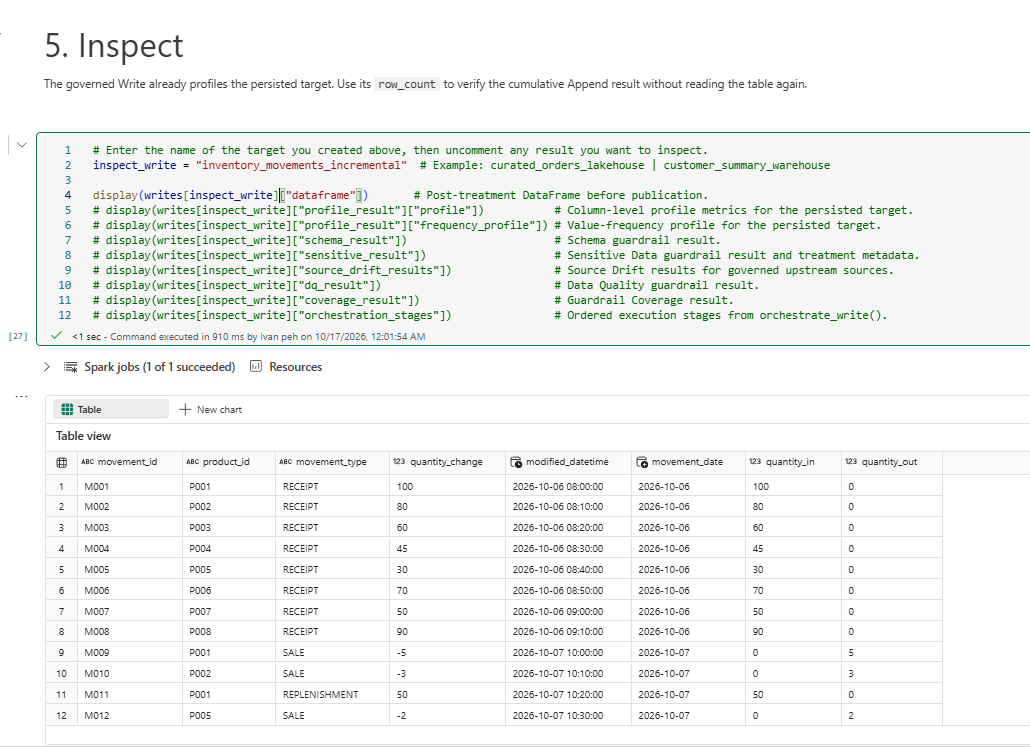
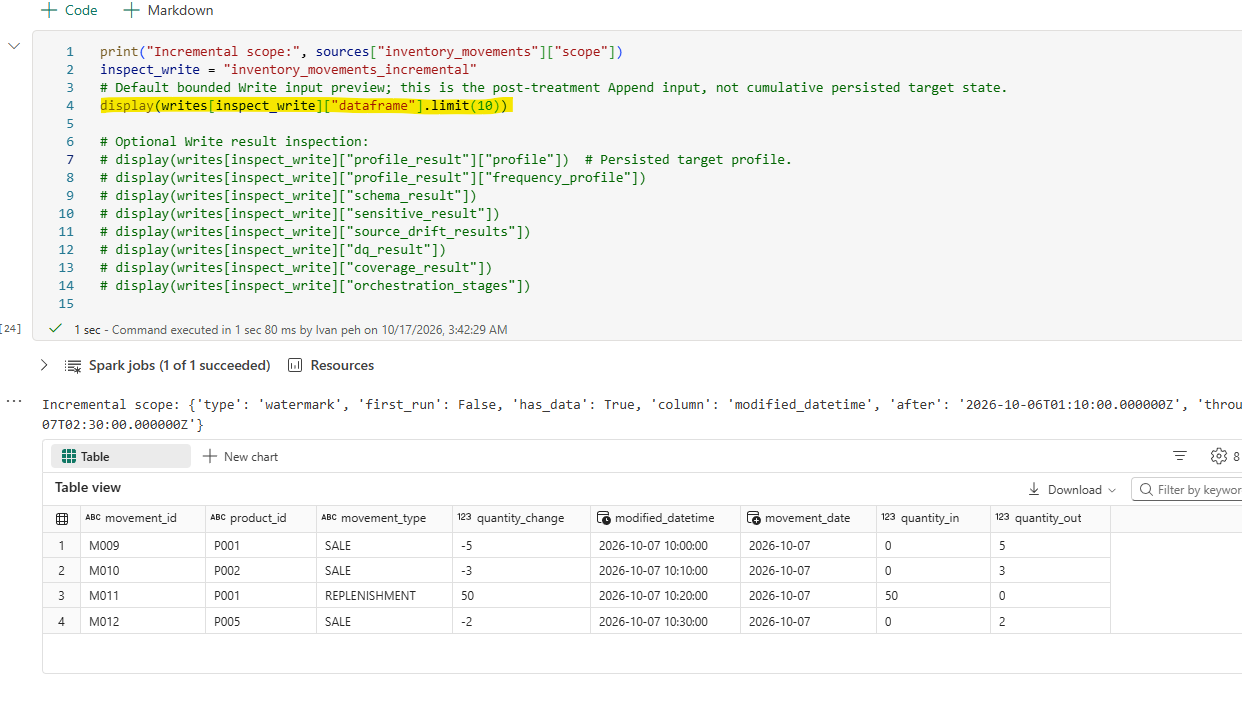
2b update

diff --git a/docs/guided-demo/02B-build-and-run-incremental-append-etl.md b/docs/guided-demo/02B-build-and-run-incremental-append-etl.md
@@ -58,30 +58,40 @@ Silver Lakehouse "demo.inventory_movement_incremental" and set "modified_datetim
 
 ![Day 1 demo day selection](../assets/2b/Day%201.png)
 
+Ocestrate Read: 
+Set a target table a read mode (incremental/full) and a Watermark Column
+
 ![Incremental Read configuration](../assets/2b/Incremental_Read.png)
+
+Day 1 first run 8 rows is read
 
 ![Incremental Read inspection](../assets/2b/Incremental_Read_inspect.png)
 
+Ocestrate Write: 
+Set a single or multiple source table and Write mode = "Append"
+
 ![Incremental Write configuration](../assets/2b/Incremental_Write.png)
+
+Day 1 first run 8 rows is written
 
 ![Incremental Write inspection](../assets/2b/Incremental_Write_Inspect.png)
 
-???+ Info How Does Incremental Load Work in FabricOps?
+## Info How Does Incremental Load Work in FabricOps?
 
-   ### FabricOps handles incremental loading through two orchestrators:
+### FabricOps handles incremental loading through two orchestrators:
 
-    1. orchestrate_read() identifies and reads only new or modified records using a watermark.
+1. orchestrate_read() identifies and reads only new or modified records using a watermark.
 
-    2. orchestrate_write() applies the selected write strategy, such as Append, and commits watermark progress only after a successful publication.
+2. orchestrate_write() applies the selected write strategy, such as Append, and commits watermark progress only after a successful publication.
 
-   ### How It Works
+### How It Works
 
-    1. Identify the source: Bronze Lakehouse demo.inventory_movements.
-    2. Identify the target: Silver Lakehouse demo.inventory_movements_incremental.
-    3. Retrieve the committed watermark for this source-to-target relationship.
-    4. Check Bronze for records where:modified_datetime > last_committed_watermark
-    5. Read only newer records, transform them, and append them to Silver.
-    6. Advance the watermark only after successful write.
+1. Identify the source: Bronze Lakehouse demo.inventory_movements.
+2. Identify the target: Silver Lakehouse demo.inventory_movements_incremental.
+3. Retrieve the committed watermark for this source-to-target relationship.
+4. Check Bronze for records where:modified_datetime > last_committed_watermark
+5. Read only newer records, transform them, and append them to Silver.
+6. Advance the watermark only after successful write.
 
 <div class="fabricops-section-banner" markdown="1">
 <img src="/FabricOps-Starter-Kit/assets/mascots/robot-scanning.png" alt="" loading="lazy">
@@ -94,7 +104,11 @@ This runs the pipeline on day 1 data which we have already loaded so you will ex
 </div>
 </div>
 
+No new data so its empty read
+
 ![Incremental Read inspection after rerunning Day 1](../assets/2b/Incremental_Read_Day1_again.png)
+
+No new data so its empty write
 
 ![Incremental Write inspection after rerunning Day 1](../assets/2b/Incremental_Write_Day1_again.png)
 
@@ -105,58 +119,44 @@ This runs the pipeline on day 1 data which we have already loaded so you will ex
 ## Change the demo day to 2 and press run all again 
 
 For Day 2 , our underlying data has 12 rows of data in 
-Bronze Lakehouse "demo.inventory_movement" table 8 of which were already loaded into Silver Lakehouse "demo.inventory_movement_incremental" in day 1 , hence only 4 rows of data was read and appended 
+Bronze Lakehouse "demo.inventory_movement" table of which 8 were already loaded into Silver Lakehouse "demo.inventory_movement_incremental" in day 1 , hence only 4 rows of data was read and appended 
 
 </div>
 </div>
 
 ![Day 2](../assets/2b/Day 2.png)
 
+4 new rows are read based on the watermark column
 
+![Day 2 incremental read inspection](../assets/2b/Incremental_Read_Day2.png)
+
+Only this 4 rows are appended
+
+![Day 2 incremental write inspection](../assets/2b/Incremental_Write_Day2.png)
 
 <div class="fabricops-section-banner" markdown="1">
 <img src="/FabricOps-Starter-Kit/assets/mascots/robot-scanning.png" alt="" loading="lazy">
 <div class="fabricops-section-content" markdown="1">
 
-## Run Day 3 in Fabric
+## Change the demo day to 3 and press run all again 
 
-Run the final scenario and inspect how the output changes.
+For Day 3, our underlying data still has 12 rows of data in 
+Bronze Lakehouse "demo.inventory_movement" table of which 12 were already loaded into Silver Lakehouse "demo.inventory_movement_incremental" in day 1 , hence only 0 rows of data was read and appended 
 
 </div>
 </div>
 
-### Change only the demo day
-
-Return to the day cell and change it to:
-
-```python
-DEMO_DAY = 3
 ```
 ![Day 3 demo run](../assets/2b/Day%203.png)
 
-Day 3 intentionally has no CSV file and adds no source records.
+No new data so its empty read
 
-### Rerun the complete notebook
+![Incremental Read inspection after rerunning Day 1](../assets/2b/Incremental_Read_Day1_again.png)
 
-Run every block again. The notebook still calls the Read and Write orchestrators; do not skip those blocks.
+No new data so its empty write
 
-You should see:
+![Incremental Write inspection after rerunning Day 1](../assets/2b/Incremental_Write_Day1_again.png)
 
-```text
-Bronze inventory rows after Day 3: 12
-```
-
-The Incremental Read returns an empty scope. The Append target remains unchanged.
-
-### Check the Day 3 output
-
-The final inspection should show:
-
-- an empty/no-change incremental scope;
-- a new persisted-target profile with `row_count = 12`; and
-- the same target row count as Day 2.
-
-*Image coming soon: Day 3 empty scope and unchanged 12-row target profile.*
 
 ### Expected result
 
@@ -188,8 +188,6 @@ All metadata is routed to the Metadata Lakehouse configured by `00_env_config`.
 ### Reset the demo
 
 An Incremental demo cannot be reset by rerunning Day 1 or deleting only the Silver target. FabricOps remembers successful progress for the exact Bronze-to-Silver relationship.
-
-The safest clean reset is to run the demo in a fresh Guided Demo environment. To reset the same environment through an approved maintenance process:
 
 1. In the Bronze Lakehouse, delete `demo.inventory_movements` from the table explorer.
 2. In the Silver Lakehouse, delete `demo.inventory_movements_incremental` from the table explorer. This removes the appended business data and the successful watermark progress stored with the governed target.

diff --git a/docs/guided-demo/02A-full-refresh-demo.md b/docs/guided-demo/02A-full-refresh-demo.md
@@ -129,11 +129,11 @@ Both Write results should show `published=True`.
 ## Inspect the saved results
 
 Verify the target tables and the recorded governance metadata.
+Open the target tables in Fabric Stores directly or use the notebook's optional inspection cell to see the dataframes 
 
 </div>
 </div>
 
-Open the target tables in Fabric or use the notebook's optional inspection cell.
 
 **Silver Lakehouse**
 
